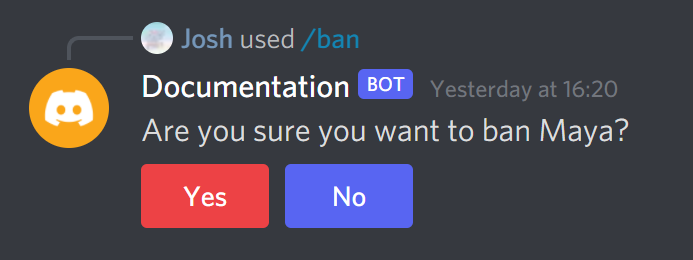
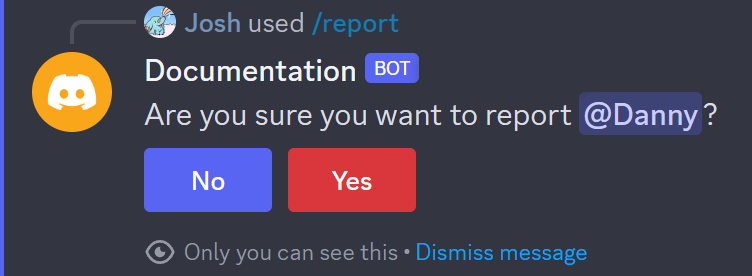
Address review comments

diff --git a/docs/guide/interactions/views.rst b/docs/guide/interactions/views.rst
@@ -5,7 +5,8 @@
 Views
 =======
 
-Views are the primary way to design message component based UIs.
+Views are the primary way to design and handle :ddocs:`component interactions <interactions/message-components>` in Discord. They are used to group components such as :ddocs:`buttons <interactions/message-components#buttons>` and :ddocs:`select menus <interactions/message-components#select-menus>` together.
+These views are attached to messsages when they are being send or edited.
 
 This section details how to create and use views in various situations.
 
@@ -18,7 +19,7 @@ Let's start with a simple example, a confirmation prompt.
 This view will have two buttons, 'Yes' and 'No', allowing a user to confirm or cancel an action.
 This could be used in a number of situations, ususally when a user is about to perform an action which cannot be undone.
 
-For example, a ban command:
+For example, a report command:
 
 .. image:: /images/guide/interactions/view_prompt_example.png
 
@@ -153,21 +154,21 @@ Sending views
 
 We send views using the ``view`` parameter in methods which send messages, for example :meth:`TextChannel.send`.
 
-In our case we're creating a confirmation prompt for our ban command, so we'll want to use the :meth:`InteractionResponse.send_message` method.
+In our case we're creating a confirmation prompt for our report command, so we'll want to use the :meth:`InteractionResponse.send_message` method.
 
 Our command might look like this:
 
 .. code-block:: python
 
     @discord.app_commands.command()
-    @discord.app_commands.describe(member='The member to ban.')
-    async def ban(interaction: discord.Interaction, member: discord.Member) -> None:
-        """Ban a member from the server."""
+    @discord.app_commands.describe(member='The member to report.')
+    async def report(interaction: discord.Interaction, member: discord.Member, reason: str | None) -> None:
+        """Report a member of the server to the moderators."""
         confirmation = Confirm(interaction.user)
-        await interaction.response.send_message(f'Are you sure you want to ban {member.name}?', view=confirmation, ephemeral=True)
+        await interaction.response.send_message(f'Are you sure you want to report {member.mention}?', view=confirmation, ephemeral=True)
         await confirmation.wait()
         if confirmation.result:
-            await member.ban()
+            await moderator_channel.send(f'{interaction.user.mention} has reported {member.mention}\nReason: {reason or "No reason provided."}')
 
 We first assign the ``View`` instance to the variable ``confirmation``, because we'll need it later.
 In our interaction response we send the instance via the ``view`` parameter.
@@ -176,7 +177,7 @@ which occurs either when the user clicks on a button (as we had called :meth:`Vi
 or the view had timed-out.
 
 Since our component callbacks assign the ``result`` attribute of the view, we can use it to determine if the user clicked on the
-`Yes` or `No` button, and ban them if they clicked `Yes`.
+`Yes` or `No` button, and report them if they clicked `Yes`.
 
 
 Persistent Views
@@ -341,6 +342,11 @@ For example, we could create a counter which increments every time the button is
 
 The :class:`~discord.ui.DynamicItem` class allows us to define components with custom data contained in the ``custom_id``.
 
+One example we could use is a counter, which increments every time the button is clicked.
+
+.. image:: /images/guide/interactions/view_dynamic_example_before.png
+
+Let's make a dynamic component to handle this.
 
 Designing a Dynamic Component
 ~~~~~~~~~~~~~~~~~~~~~~~~~~~~~~
@@ -417,7 +423,7 @@ Our callback might look like this:
             )
 
         @classmethod
-        async def from_custom_id(cls, interaction: discord.Interaction, match: re.Match[str], /):
+        async def from_custom_id(cls, interaction: discord.Interaction, item: discord.ui.Button, match: re.Match[str], /):
             count = int(match['count'])
             return cls(count)
 
@@ -466,6 +472,7 @@ with the :class:`~discord.Client` with the :meth:`~discord.Client.add_dynamic_it
 
 Assuming we did everything right the bot should now increment the counter every time the button is clicked.
 
+.. image:: /images/guide/interactions/view_dynamic_example_after.png
 
 Further Reading
 -----------------
